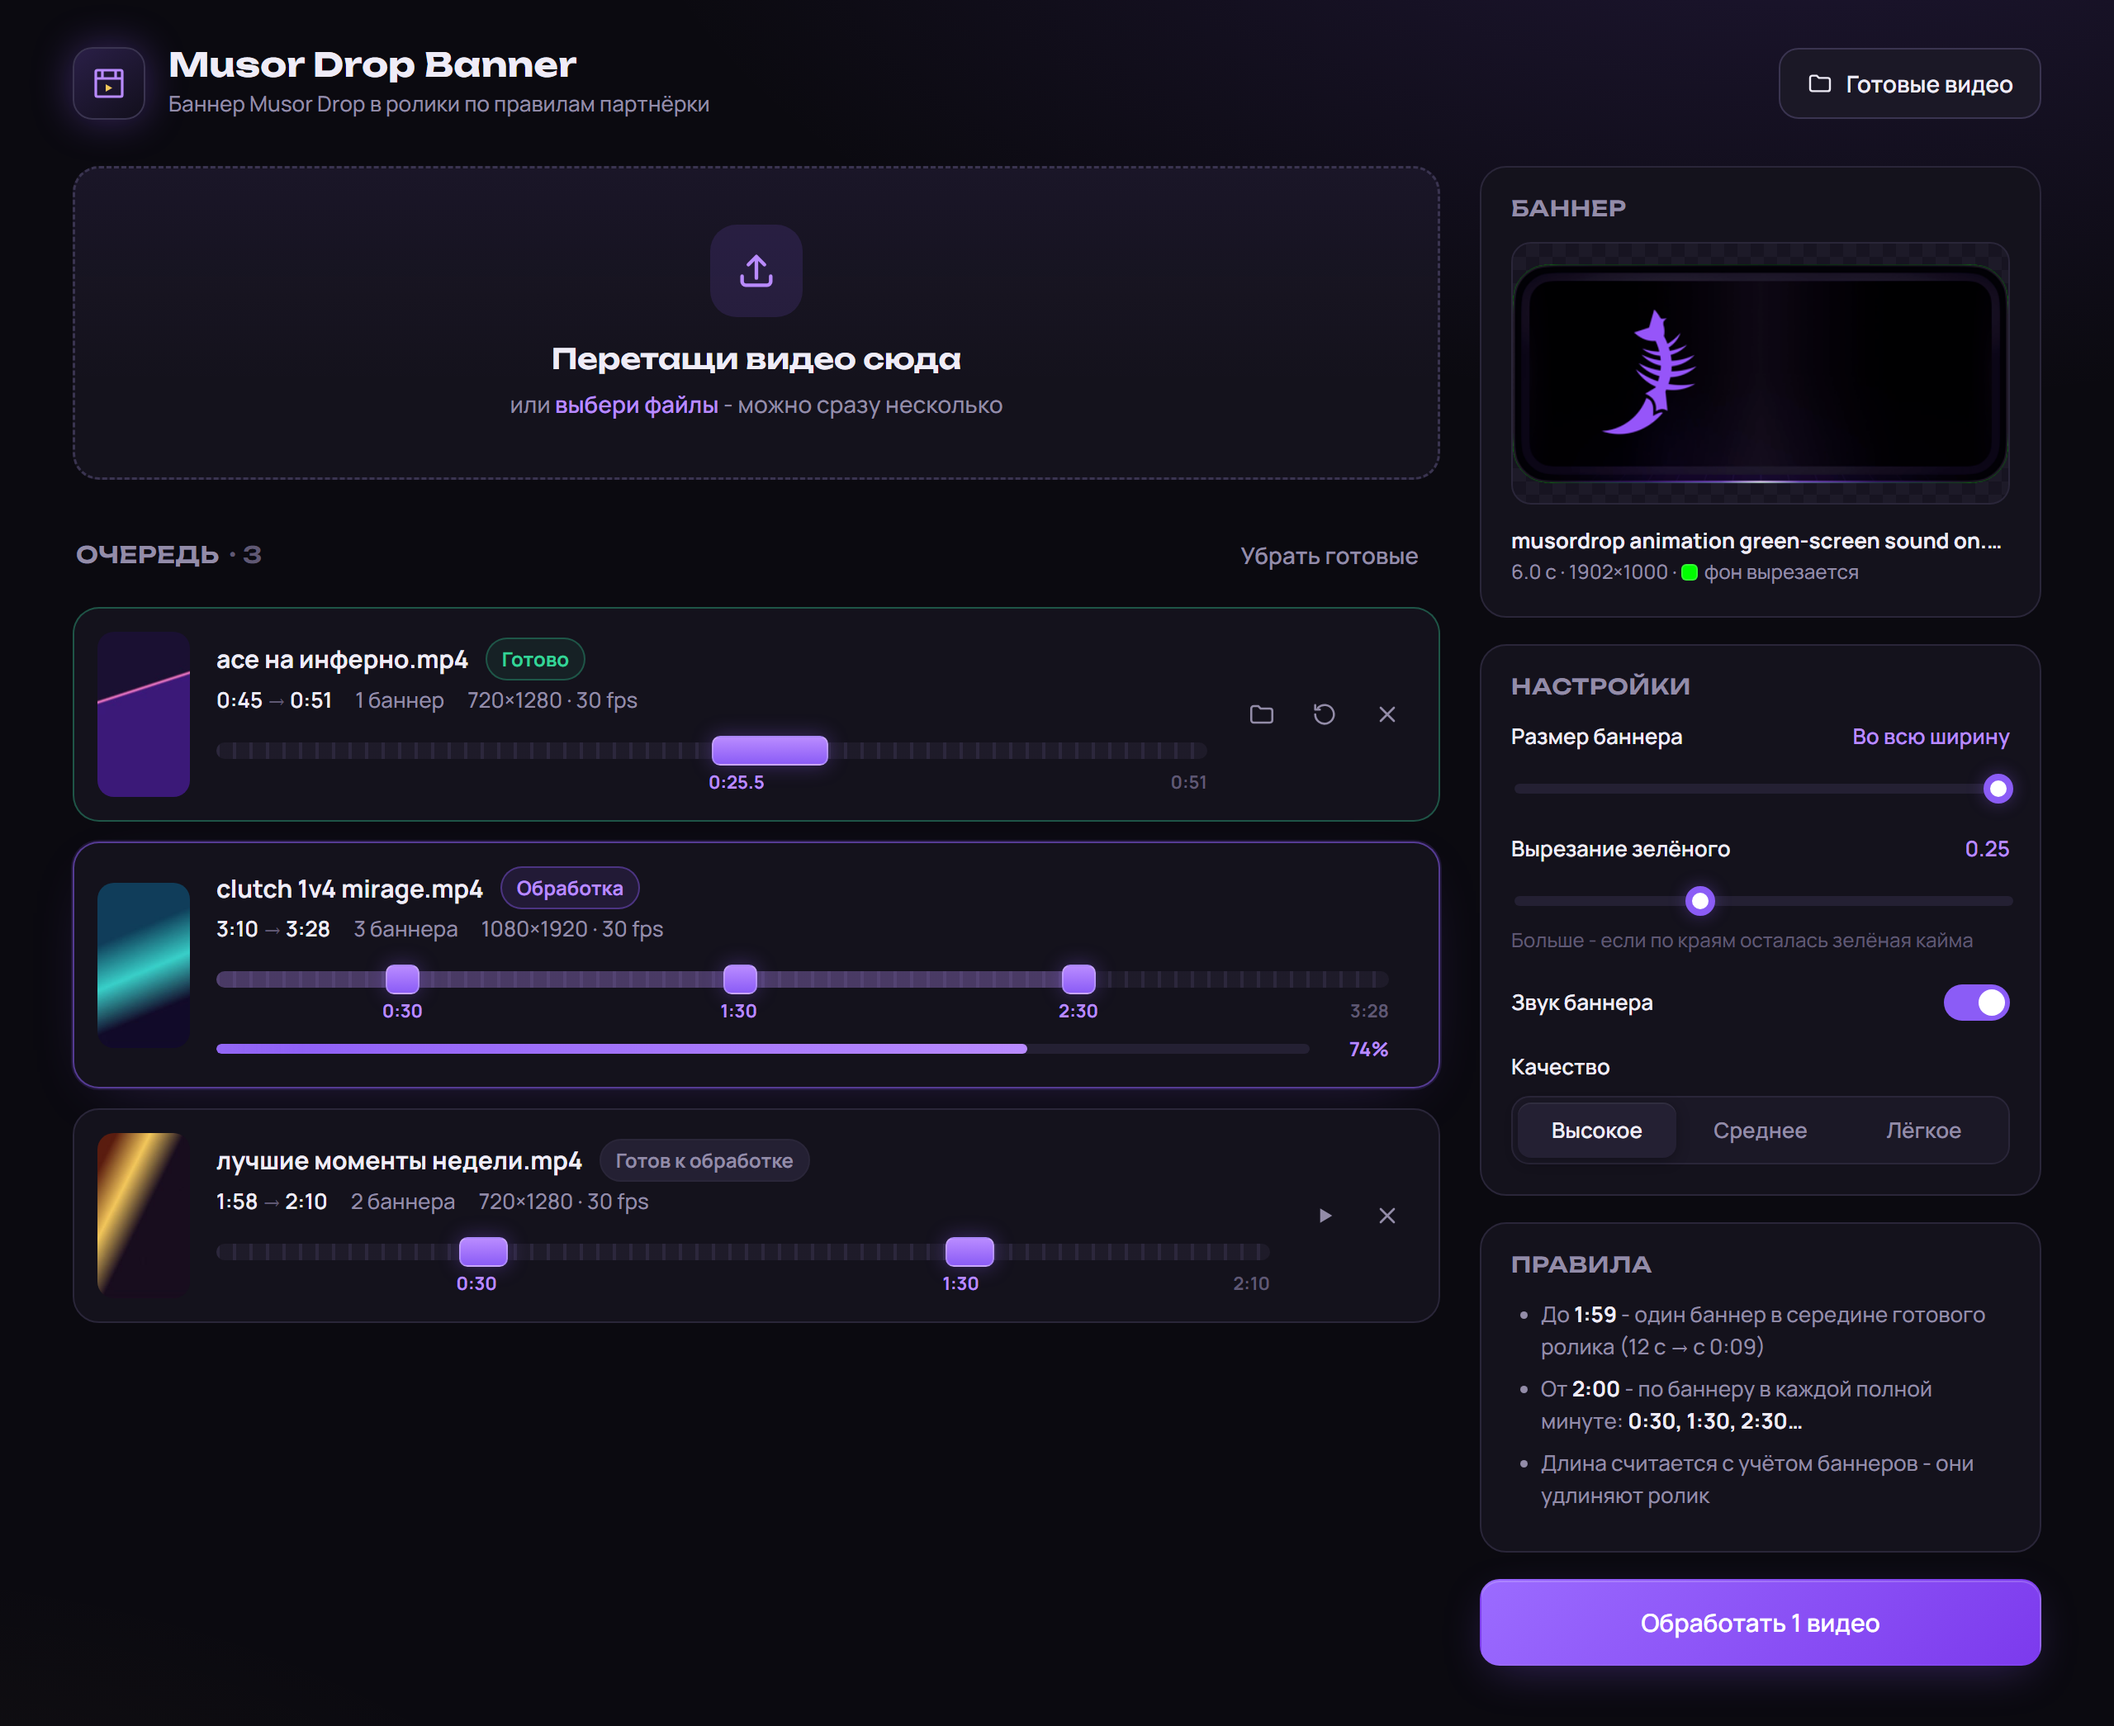
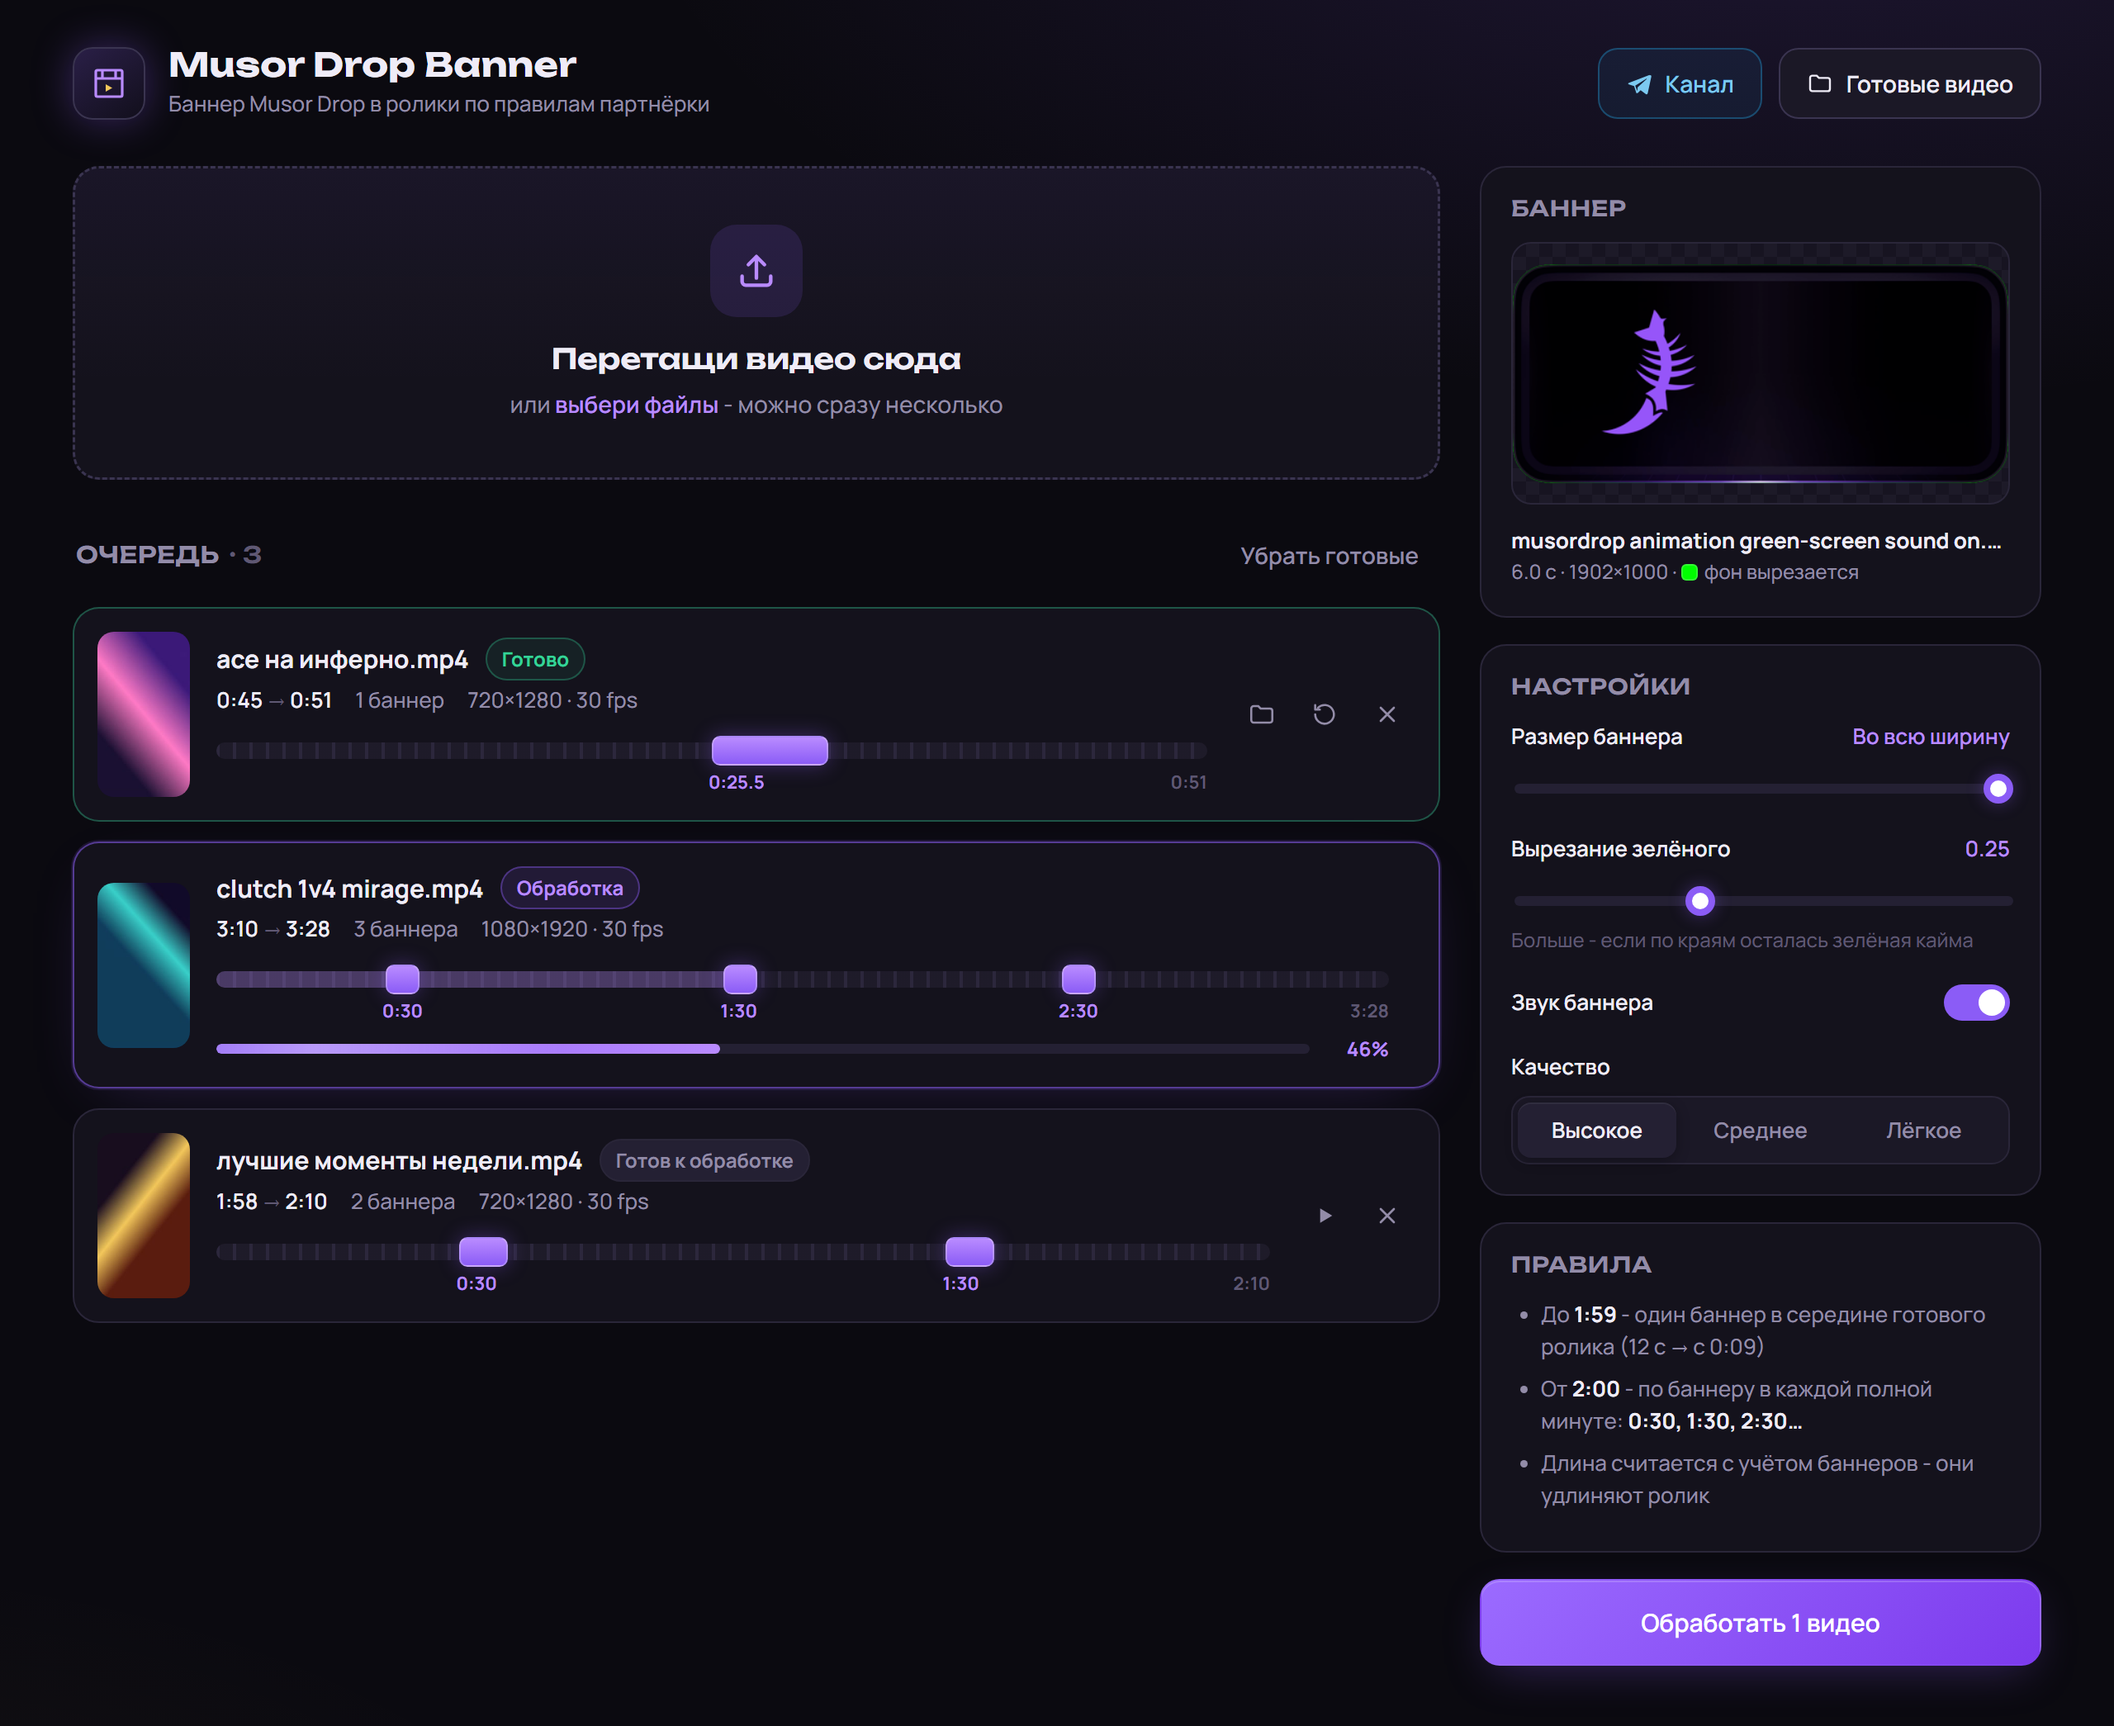
Лицензия MIT, кнопка канала в интерфейсе, бейджи версии и лицензии

diff --git a/static/index.html b/static/index.html
@@ -69,6 +69,10 @@
     box-shadow: 0 8px 28px -8px var(--accent-glow), inset 0 1px 0 rgba(255,255,255,.18);
   }
   .btn-primary:hover { background: linear-gradient(135deg, #a77cff, #8647f5); }
+  .header-actions { display: flex; gap: 10px; flex-wrap: wrap; }
+  @media (max-width: 760px) { header { flex-wrap: wrap; } .header-actions { width: 100%; } }
+  .btn-tg { text-decoration: none; color: #7cc9f0; border-color: rgba(38,165,228,.35); background: rgba(38,165,228,.08); }
+  .btn-tg:hover { color: #fff; background: rgba(38,165,228,.2); border-color: rgba(38,165,228,.6); }
   .btn-ghost { background: transparent; border-color: transparent; color: var(--muted); padding: 8px 10px; }
   .btn-ghost:hover { background: var(--surface-2); color: var(--text); border-color: var(--border); }
   .icon-btn {
@@ -244,10 +248,16 @@
         <p>Баннер Musor Drop в ролики по правилам партнёрки</p>
       </div>
     </div>
-    <button class="btn" id="openFolder" title="Открыть папку с готовыми видео">
-      <svg width="16" height="16" viewBox="0 0 24 24" fill="none"><path d="M3 7a2 2 0 0 1 2-2h4l2 2h8a2 2 0 0 1 2 2v8a2 2 0 0 1-2 2H5a2 2 0 0 1-2-2V7Z" stroke="currentColor" stroke-width="1.8"/></svg>
-      Готовые видео
-    </button>
+    <div class="header-actions">
+      <a class="btn btn-tg" href="https://t.me/attavian0" target="_blank" rel="noopener" title="Новости и обновления">
+        <svg width="16" height="16" viewBox="0 0 24 24" fill="currentColor"><path d="M21.4 4.3 2.9 11.4c-1.3.5-1.2 1.2-.2 1.5l4.7 1.5 1.8 5.6c.2.6.1.9.8.9.5 0 .7-.2 1-.5l2.3-2.2 4.8 3.5c.9.5 1.5.2 1.7-.8l3.2-14.9c.3-1.3-.5-1.9-1.6-1.4ZM8.4 14.1l9.9-6.2c.5-.3.9-.1.5.2l-8.2 7.4-.3 3.4-1.9-4.8Z"/></svg>
+        Канал
+      </a>
+      <button class="btn" id="openFolder" title="Открыть папку с готовыми видео">
+        <svg width="16" height="16" viewBox="0 0 24 24" fill="none"><path d="M3 7a2 2 0 0 1 2-2h4l2 2h8a2 2 0 0 1 2 2v8a2 2 0 0 1-2 2H5a2 2 0 0 1-2-2V7Z" stroke="currentColor" stroke-width="1.8"/></svg>
+        Готовые видео
+      </button>
+    </div>
   </header>
 
   <div class="layout">

diff --git a/musordrop.py b/musordrop.py
@@ -235,7 +235,8 @@ def frame_png(path: Path, out: Path, t: float, width: int, chroma: str | None = 
 def main():
     sys.stdout.reconfigure(encoding="utf-8")
     sys.stderr.reconfigure(encoding="utf-8")
-    p = argparse.ArgumentParser(description="Вставляет баннер Musor Drop в видео по правилам партнёрки")
+    p = argparse.ArgumentParser(description="Вставляет баннер Musor Drop в видео по правилам партнёрки",
+                                epilog="Новости и обновления: https://t.me/attavian0")
     p.add_argument("videos", type=Path, nargs="+", help="одно или несколько видео")
     p.add_argument("-o", "--out", type=Path, help="куда сохранить, только для одного видео")
     p.add_argument("--scale", type=float, help="ширина баннера как доля ширины видео, например 0.8")

diff --git a/app.py b/app.py
@@ -289,7 +289,9 @@ def main():
     threading.Thread(target=worker, daemon=True).start()
     if "--no-browser" not in sys.argv:
         threading.Timer(1.0, lambda: webbrowser.open(url)).start()
-    print(f"Musor Drop Banner: {url}\nНе закрывай это окно, пока работаешь.")
+    print(f"Musor Drop Banner: {url}\n"
+          "Не закрывай это окно, пока работаешь.\n"
+          "Новости и обновления: https://t.me/attavian0")
     app.run(host=HOST, port=PORT, debug=False, threaded=True)
 
 

diff --git a/README.md b/README.md
@@ -8,6 +8,8 @@
 ![Python](https://img.shields.io/badge/python-3.10+-3776AB?style=flat-square&logo=python&logoColor=white)
 ![Platform](https://img.shields.io/badge/Windows%20%7C%20macOS%20%7C%20Linux-8b5cf6?style=flat-square)
 ![ffmpeg](https://img.shields.io/badge/ffmpeg-%D0%B2%D1%81%D1%82%D1%80%D0%BE%D0%B5%D0%BD-007808?style=flat-square&logo=ffmpeg&logoColor=white)
+[![License](https://img.shields.io/badge/license-MIT-f3c75b?style=flat-square)](LICENSE)
+[![Release](https://img.shields.io/github/v/release/Attaviano/musordrop-banner?style=flat-square&color=8b5cf6&label=%D0%B2%D0%B5%D1%80%D1%81%D0%B8%D1%8F)](https://github.com/Attaviano/musordrop-banner/releases/latest)
 
 [![Telegram](https://img.shields.io/badge/Telegram-@attavian0-26A5E4?style=for-the-badge&logo=telegram&logoColor=white)](https://t.me/attavian0)
 
@@ -44,7 +46,7 @@
 ## Быстрый старт
 
 1. Поставь [Python 3.10 или новее](https://www.python.org/downloads/). При установке отметь **Add python.exe to PATH**.
-2. Скачай репозиторий: зелёная кнопка **Code** → **Download ZIP**, распакуй.
+2. Скачай [последнюю версию](https://github.com/Attaviano/musordrop-banner/releases/latest) (Source code zip) и распакуй.
 3. Скачай анимацию баннера в кабинете партнёрки Musor Drop и положи в папку с программой. В названии файла должно быть `green-screen` или `musordrop`, например `musordrop animation green-screen sound on.mp4`.
 4. Запусти **`start.bat`**. В первый раз он сам поставит зависимости, потом откроет программу в браузере.
 
@@ -113,5 +115,7 @@ python musordrop.py clip.mp4 --mute         # без звука баннера
 Сделано для партнёров Musor Drop. Новости и обновления в Telegram:
 
 [![Telegram](https://img.shields.io/badge/Telegram-@attavian0-26A5E4?style=for-the-badge&logo=telegram&logoColor=white)](https://t.me/attavian0)
+
+<sub>Лицензия MIT: пользуйся, меняй и делись, только сохрани файл LICENSE с указанием автора.</sub>
 
 </div>
